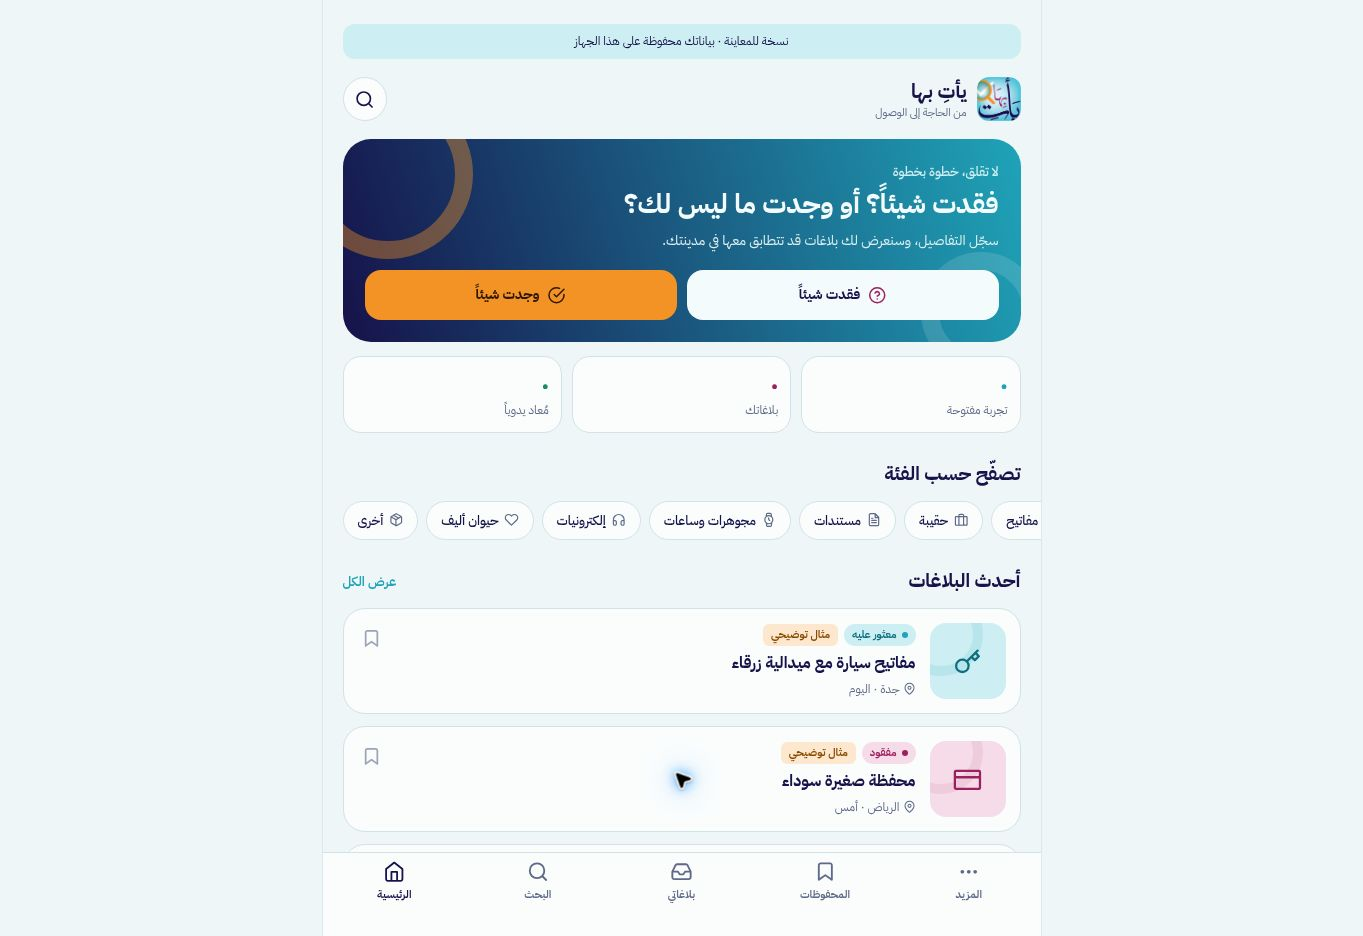
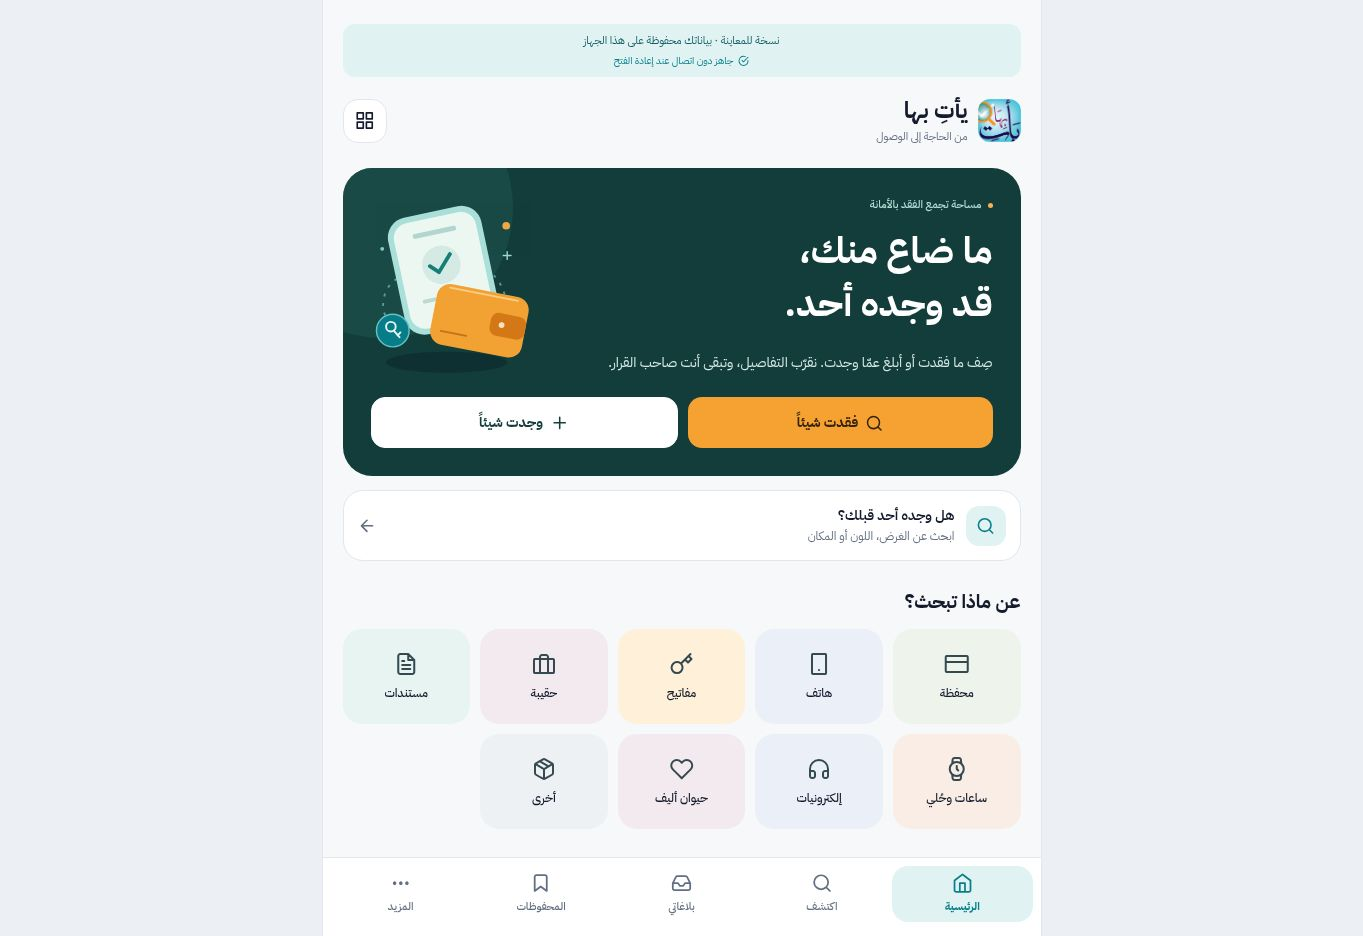
Preserve pending report edits on reload and update live preview screenshots

diff --git a/artifacts/yat-biha/hooks/useCaptureDraft.ts b/artifacts/yat-biha/hooks/useCaptureDraft.ts
@@ -1,4 +1,5 @@
 import { useCallback, useEffect, useRef, useState } from 'react';
+import { AppState, Platform } from 'react-native';
 import AsyncStorage from '@react-native-async-storage/async-storage';
 import { IS_PREVIEW } from '@/config/runtime';
 import type { ReportInput } from '@/context/ReportsContext';
@@ -19,24 +20,44 @@ export function useCaptureDraft(id: string, value: ReportInput, step: number) {
   const active = useRef(true);
   const permitted = useRef(false);
   const readGeneration = useRef(0);
+  const writeEpoch = useRef(0);
+  const savedContent = useRef<string | null>(null);
   const latest = useRef<CaptureDraft>({ version: 1, value, step, savedAt: Date.now() });
   latest.current = { version: 1, value, step, savedAt: Date.now() };
 
-  const save = useCallback((draft: CaptureDraft) => {
+  const save = useCallback((draft: CaptureDraft, synchronousWebFlush = false) => {
     if (done.current || !permitted.current) return queue.current;
+    // AsyncStorage's web adapter writes localStorage synchronously within
+    // setItem. Invoke it before pagehide returns, rather than enqueueing a
+    // promise callback that the browser may discard during navigation.
+    const epoch = synchronousWebFlush ? ++writeEpoch.current : writeEpoch.current;
+    const content = JSON.stringify({ value: draft.value, step: draft.step });
     if (active.current) setStatus('saving');
-    const next = queue.current.catch(() => {}).then(async () => {
-      if (done.current) return;
+    const write = async () => {
+      if (done.current || !permitted.current || epoch !== writeEpoch.current) return;
       await AsyncStorage.setItem(key, JSON.stringify(draft));
-      if (active.current) setStatus('saved');
-    });
+      if (epoch !== writeEpoch.current) return;
+      savedContent.current = content;
+      const currentContent = JSON.stringify({ value: latest.current.value, step: latest.current.step });
+      if (active.current) setStatus(content === currentContent ? 'saved' : 'saving');
+    };
+    const next = synchronousWebFlush ? write() : queue.current.catch(() => {}).then(write);
     queue.current = next;
-    void next.catch(() => { if (active.current) setStatus('error'); });
+    void next.catch(() => { if (active.current && epoch === writeEpoch.current) setStatus('error'); });
     return next;
   }, [key]);
 
+  const flushLatest = useCallback(() => {
+    if (timer.current) clearTimeout(timer.current);
+    const last = latest.current.value;
+    if (!done.current && permitted.current && (last.title.trim() || last.description.trim() || last.photoUri || last.place.trim() || savedContent.current !== null)) {
+      void save(latest.current, Platform.OS === 'web').catch(() => {});
+    }
+  }, [save]);
+
   const retryHydration = useCallback(async () => {
     const generation = ++readGeneration.current;
+    writeEpoch.current++;
     permitted.current = false;
     setResolved(false);
     setHydrating(true);
@@ -77,17 +98,32 @@ export function useCaptureDraft(id: string, value: ReportInput, step: number) {
     return () => {
       readGeneration.current++;
       active.current = false;
-      if (timer.current) clearTimeout(timer.current);
-      const last = latest.current.value;
-      if (!done.current && permitted.current && (last.title.trim() || last.description.trim() || last.photoUri || last.place.trim())) void save(latest.current).catch(() => {});
+      flushLatest();
     };
-  }, [retryHydration, save]);
+  }, [retryHydration, flushLatest]);
+
+  useEffect(() => {
+    if (Platform.OS === 'web' && typeof window !== 'undefined' && typeof document !== 'undefined') {
+      const onVisibilityChange = () => { if (document.visibilityState === 'hidden') flushLatest(); };
+      window.addEventListener('pagehide', flushLatest);
+      document.addEventListener('visibilitychange', onVisibilityChange);
+      return () => {
+        window.removeEventListener('pagehide', flushLatest);
+        document.removeEventListener('visibilitychange', onVisibilityChange);
+      };
+    }
+    const subscription = AppState.addEventListener('change', (next) => {
+      if (next === 'background' || next === 'inactive') flushLatest();
+    });
+    return () => subscription.remove();
+  }, [flushLatest]);
 
   const serialized = JSON.stringify({ value, step });
   useEffect(() => {
     if (!ready || !resolved || done.current) return;
     // Empty untouched forms do not create a restoration prompt.
-    if (!value.title.trim() && !value.description.trim() && !value.photoUri && !value.place.trim()) return;
+    if (!value.title.trim() && !value.description.trim() && !value.photoUri && !value.place.trim() && savedContent.current === null) return;
+    setStatus('saving');
     if (timer.current) clearTimeout(timer.current);
     timer.current = setTimeout(() => { void save(latest.current).catch(() => {}); }, 450);
     return () => { if (timer.current) clearTimeout(timer.current); };
@@ -115,5 +151,8 @@ export function useCaptureDraft(id: string, value: ReportInput, step: number) {
     if (ownsStoredDraft) await AsyncStorage.removeItem(key).catch(() => {});
   }, [key]);
 
-  return { existing, ready, resolved, status, hydrationError, hydrating, retryHydration, restore, discard, finish };
+  // Rendering new text must never display a stale "saved" acknowledgement,
+  // even in the render before the debounce effect marks the edit pending.
+  const currentStatus = status === 'saved' && resolved && serialized !== savedContent.current ? 'saving' : status;
+  return { existing, ready, resolved, status: currentStatus, hydrationError, hydrating, retryHydration, restore, discard, finish };
 }

diff --git a/README.md b/README.md
@@ -63,3 +63,5 @@ The partnership brief describes further community services and proposed collabor
 Run `pnpm test:app` for behavior tests. The GitHub workflows run these tests alongside TypeScript, export checks, and isolated API checks. See [offline behavior](docs/offline.md) for first-load, update and browser-storage limits. The preview is not a signed store release.
 
 ![Arabic app preview](docs/preview.jpg)
+
+[View the phone layout](docs/preview-mobile.jpg)
